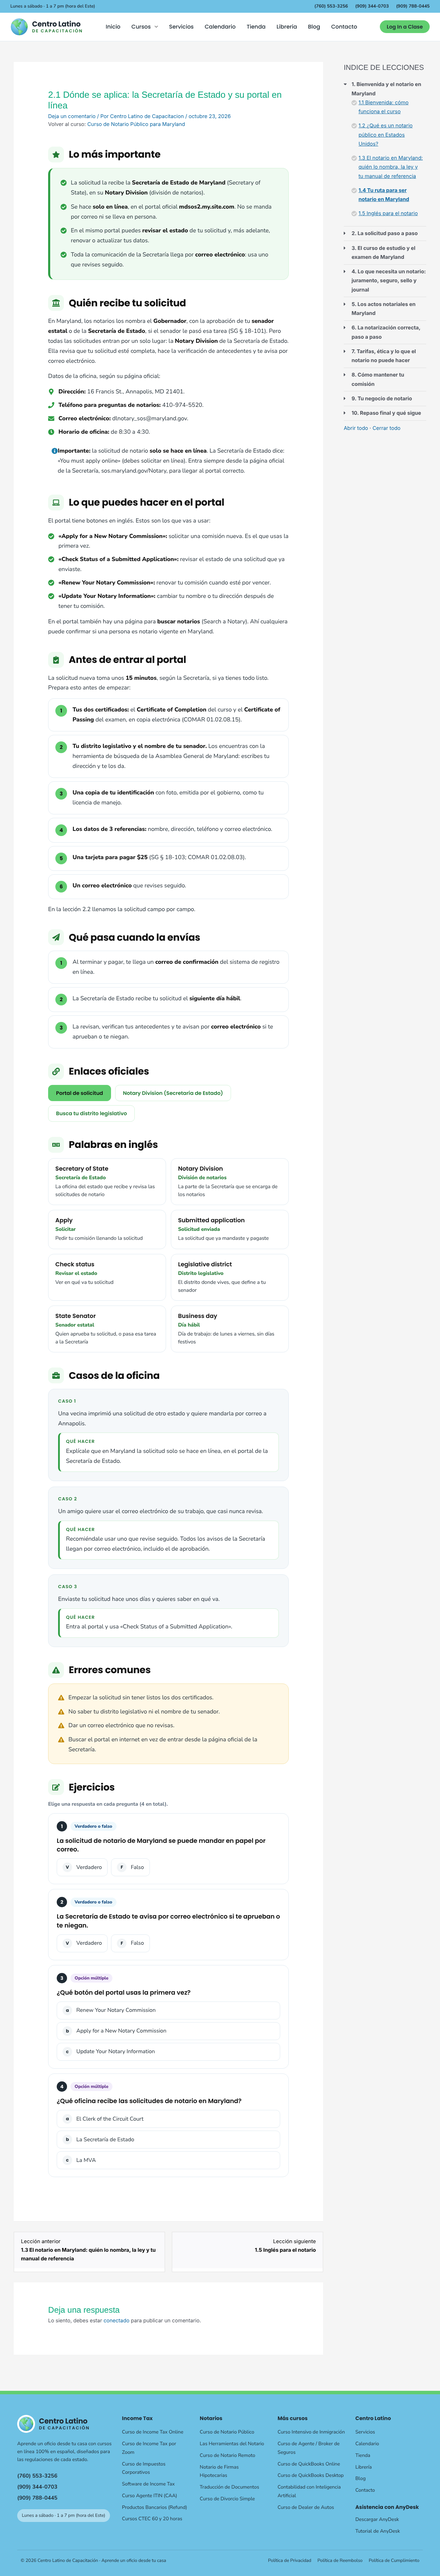
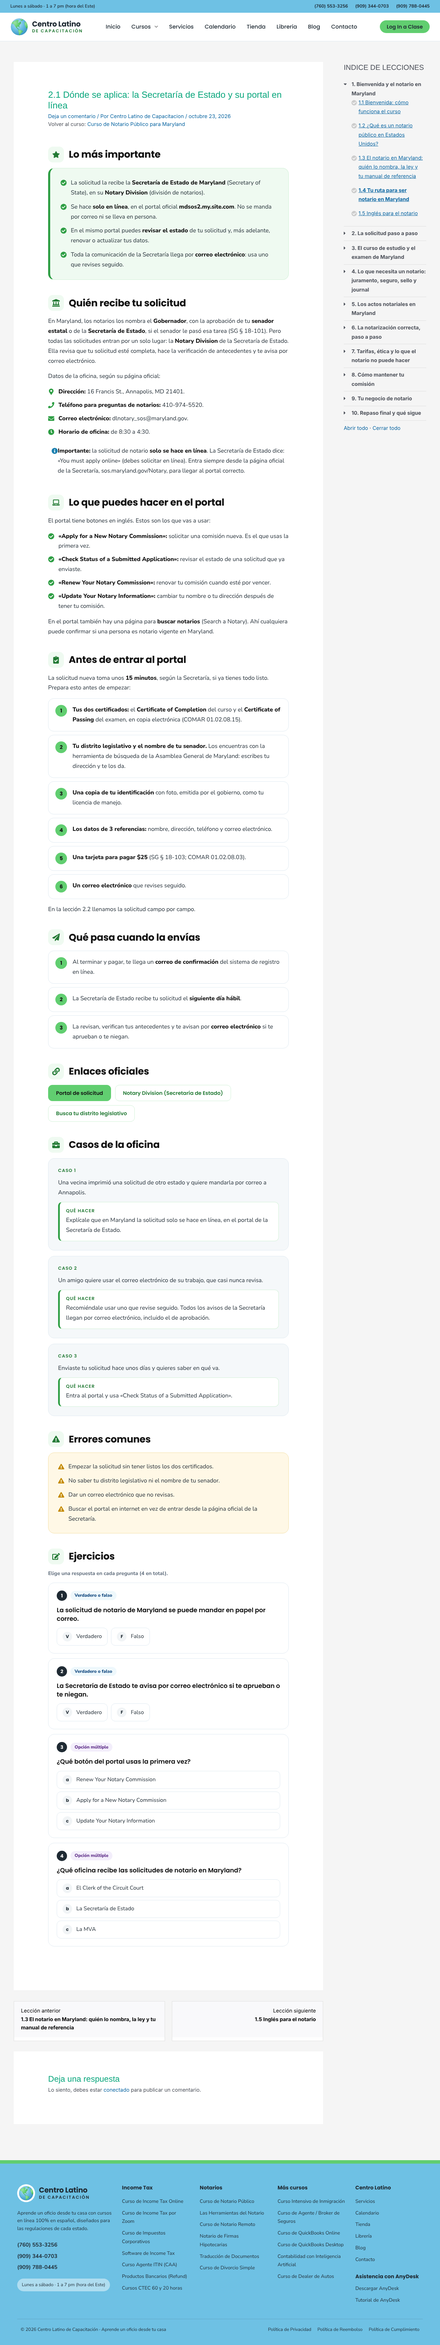
Lección 2.1: sin glosario (solo va en lecciones con términos clave de notario)
Claude-Session: https://claude.ai/code/session_01JRxtCcSULsYhXqGmdCLY8U

Changed region(s): [[0.0312, 0.0, 0.6562, 0.8402], [0.0, 0.8402, 1.0, 0.9957], [0.7812, 0.0, 0.9688, 0.1867]]

diff --git a/net-cursos/notarios/maryland/leccion-2-1.html b/net-cursos/notarios/maryland/leccion-2-1.html
@@ -25,9 +25,6 @@
 <!-- wp:heading --><h2 class="wp-block-heading">Enlaces oficiales</h2><!-- /wp:heading -->
 <!-- wp:paragraph --><p><a href="https://sos.maryland.gov/Notary/Pages/default.aspx" target="_blank" rel="noopener">Notary Division (Secretaría de Estado)</a> <a href="https://mdsos2.my.site.com/" target="_blank" rel="noopener">Portal de solicitud</a> <a href="https://mgaleg.maryland.gov/mgawebsite/members/district" target="_blank" rel="noopener">Busca tu distrito legislativo</a></p><!-- /wp:paragraph -->
 
-<!-- wp:heading --><h2 class="wp-block-heading">Palabras en inglés</h2><!-- /wp:heading -->
-<!-- wp:table --><figure class="wp-block-table"><table><thead><tr><th>Inglés</th><th>Español</th><th>Qué significa</th></tr></thead><tbody><tr><td>Secretary of State</td><td>Secretaría de Estado</td><td>La oficina del estado que recibe y revisa las solicitudes de notario</td></tr><tr><td>Notary Division</td><td>División de notarios</td><td>La parte de la Secretaría que se encarga de los notarios</td></tr><tr><td>Apply</td><td>Solicitar</td><td>Pedir tu comisión llenando la solicitud</td></tr><tr><td>Submitted application</td><td>Solicitud enviada</td><td>La solicitud que ya mandaste y pagaste</td></tr><tr><td>Check status</td><td>Revisar el estado</td><td>Ver en qué va tu solicitud</td></tr><tr><td>Legislative district</td><td>Distrito legislativo</td><td>El distrito donde vives, que define a tu senador</td></tr><tr><td>State Senator</td><td>Senador estatal</td><td>Quien aprueba tu solicitud, o pasa esa tarea a la Secretaría</td></tr><tr><td>Business day</td><td>Día hábil</td><td>Día de trabajo: de lunes a viernes, sin días festivos</td></tr></tbody></table></figure><!-- /wp:table -->
-
 <!-- wp:heading --><h2 class="wp-block-heading">Casos de la oficina</h2><!-- /wp:heading -->
 <!-- wp:paragraph --><p><strong>Caso 1.</strong> Una vecina imprimió una solicitud de otro estado y quiere mandarla por correo a Annapolis.<br><strong>Qué hacer:</strong> explícale que en Maryland la solicitud solo se hace en línea, en el portal de la Secretaría de Estado.</p><!-- /wp:paragraph -->
 <!-- wp:paragraph --><p><strong>Caso 2.</strong> Un amigo quiere usar el correo electrónico de su trabajo, que casi nunca revisa.<br><strong>Qué hacer:</strong> recomiéndale usar uno que revise seguido. Todos los avisos de la Secretaría llegan por correo electrónico, incluido el de aprobación.</p><!-- /wp:paragraph -->
